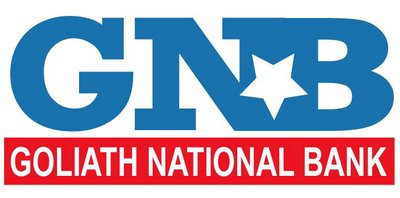
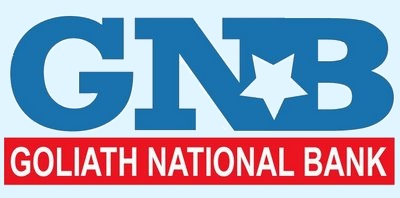
Harj guys

diff --git a/web/default.css b/web/default.css
@@ -48,18 +48,18 @@ td, th {
 
 #menubar{
     position: absolute;
-    top: 112%;
     left: 5px;
-    width: 140px;
+    width: 200px;
     color: black;
-    background: #483d8b;
-    border: 2px solid black;
+    background: #E0F5FF;
+    hight: 100%;
+    top: 198px;
 
 }
 
 a.mlink:link,a.mlink:visited,a.mlink:active{
     font-family:verdana,arial,sans-serif;
-    color:white;
+    color:#1972ae;
     display:block;
     width: 120px;
     text-decoration: none;
@@ -68,6 +68,7 @@ a.mlink:link,a.mlink:visited,a.mlink:active{
     background:url(usynlig.gif);
     font-weight:normal;
     margin-left: 10px;
+    top: 300px;
 
 }
 
@@ -80,17 +81,16 @@ a.mlink:hover {
     position: absolute;
     top: 0px;
     left: 0px;
-    background-image: url("images/GNB.jpg");
-    background-repeat: no-repeat;
     width: 100%;
     height: 198px;
+    background: #E0F5FF url("images/GNB.jpg") no-repeat top left;
     
     
 }
 
 
 #indhold{
-    padding-top:11%;
+    padding-top:200px;
     padding-left:22%;
     padding-right:20px;
     font-size: 14px;
